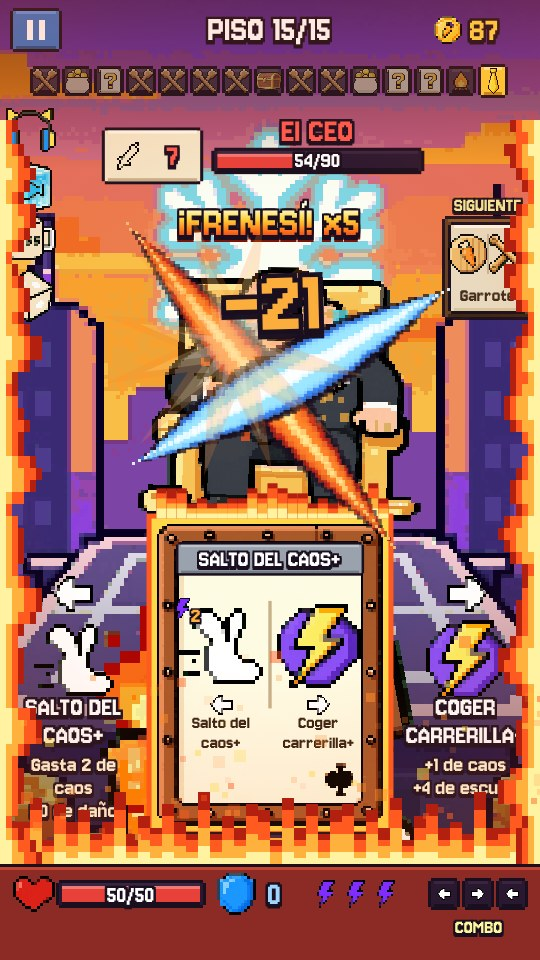
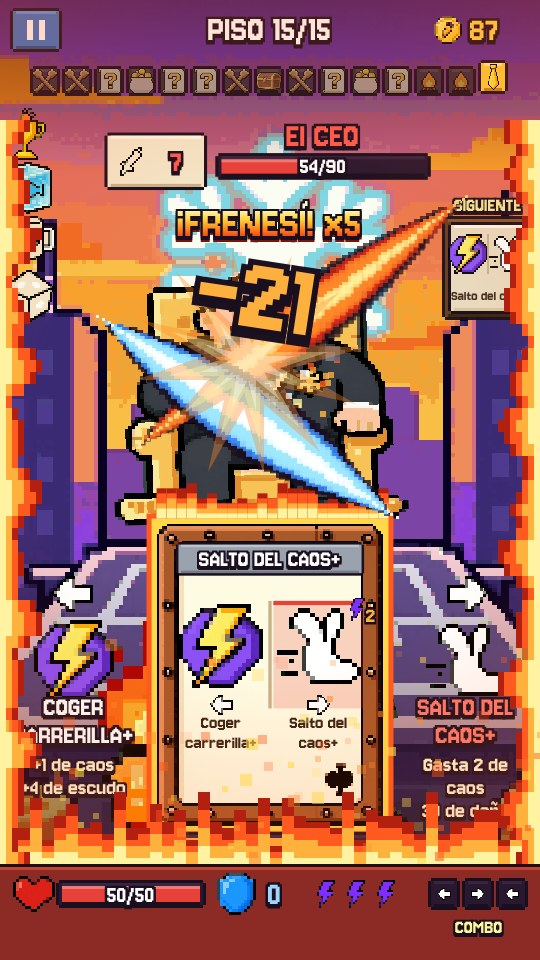
alfa 2eabdcb: Fans of Swipe: lados de las cartas fijos por diseño y el ataque marcado en rojo

diff --git a/alfa/demos/swipe/js/ajustes.js b/alfa/demos/swipe/js/ajustes.js
@@ -23,9 +23,10 @@ const SW_CFG = {
   mecha: 8, mechaJefe: 6.5, rapido: 2.2,   // segundos de mecha; la mecha arranca cuando la carta ya ha caído y arrastrando va a la mitad
   frenesi: 4, frenesiDano: 1.5, frenesiOro: 1.5,
   esperaEnemigo: 0.42,
-  // la estrategia: el escudo que te sobra se guarda a medias para el turno siguiente (guardia) y cada carta sale con sus
-  // lados en un orden al azar, así que no siempre es «izquierda = atacar»; además ves la siguiente carta del mazo
-  guardia: 0.5, giro: 0.5,
+  // la estrategia: el escudo que te sobra se guarda a medias para el turno siguiente (guardia) y ves la siguiente carta.
+  // Los lados de cada carta van FIJOS por diseño (unas atacan a la izquierda y otras a la derecha): quien se sabe las cartas
+  // juega más rápido. giro = probabilidad de darles la vuelta al azar (0 = nunca; así lo pidió Arkioner).
+  guardia: 0.5, giro: 0,
 };
 
 // Efectos (los usan las cartas, los eventos y la tienda). t = tipo:
@@ -42,16 +43,16 @@ const SW_CARTAS = {
   mordisco: { nombre: 'Zanahoria', arte: ['a-golpe', 'a-cura'], rareza: 0,
     izq: { nombre: 'Zanahoriazo', ef: [{ t: 'dano', n: 4 }, { t: 'caos', n: 1 }] },
     der: { nombre: 'Merendar', ef: [{ t: 'cura', n: 3 }, { t: 'escudo', n: 4 }] } },
-  salto:    { nombre: 'Salto del caos', arte: ['a-salto', 'a-caos'], rareza: 0,
-    izq: { nombre: 'Salto del caos', coste: 2, ef: [{ t: 'dano', n: 14 }] },
-    der: { nombre: 'Coger carrerilla', ef: [{ t: 'caos', n: 1 }, { t: 'escudo', n: 3 }] } },
+  salto:    { nombre: 'Salto del caos', arte: ['a-caos', 'a-salto'], rareza: 0,
+    izq: { nombre: 'Coger carrerilla', ef: [{ t: 'caos', n: 1 }, { t: 'escudo', n: 3 }] },
+    der: { nombre: 'Salto del caos', coste: 2, ef: [{ t: 'dano', n: 14 }] } },
   antorcha: { nombre: 'Antorcha verde', arte: ['a-fuego', 'a-cura'], rareza: 1,
     izq: { nombre: 'Fuego verde', ef: [{ t: 'dano', n: 3 }, { t: 'veneno', n: 4 }] },
     der: { nombre: 'Calentarse', ef: [{ t: 'cura', n: 3 }, { t: 'escudo', n: 3 }] } },
-  hielo:    { nombre: 'Carámbano', arte: ['a-hielo', 'a-escudo'], rareza: 2,
-    izq: { nombre: 'Carámbano', coste: 1, ef: [{ t: 'dano', n: 5 }, { t: 'congela' }] },
-    der: { nombre: 'Muro de hielo', ef: [{ t: 'escudo', n: 9 }] } },
-  furia:    { nombre: 'Rabia de fan', arte: ['a-golpe', 'a-caos'], rareza: 1,
+  hielo:    { nombre: 'Carámbano', arte: ['a-escudo', 'a-hielo'], rareza: 2,
+    izq: { nombre: 'Muro de hielo', ef: [{ t: 'escudo', n: 9 }] },
+    der: { nombre: 'Carámbano', coste: 1, ef: [{ t: 'dano', n: 5 }, { t: 'congela' }] } },
+  furia:    { nombre: 'Rabia de fan', arte: ['a-golpe', 'a-salto'], rareza: 1,
     izq: { nombre: 'Doble garrotazo', ef: [{ t: 'dano', n: 4, k: 2 }] },
     der: { nombre: 'A lo loco', ef: [{ t: 'dano', n: 13 }, { t: 'herida', n: 3 }] } },
   muro:     { nombre: 'Placaje', arte: ['a-escudo', 'a-escudo'], rareza: 1,
@@ -63,18 +64,18 @@ const SW_CARTAS = {
   rayo:     { nombre: 'Rayo del caos', arte: ['a-caos', 'a-caos'], rareza: 2,
     izq: { nombre: 'Rayo del caos', coste: 3, ef: [{ t: 'dano', n: 24 }] },
     der: { nombre: 'Cargar caos', ef: [{ t: 'caos', n: 2 }] } },
-  cafe:     { nombre: 'Café robado', arte: ['a-caos', 'a-cura'], rareza: 1,
-    izq: { nombre: 'Chute de café', ef: [{ t: 'caos', n: 1 }, { t: 'dano', n: 3 }] },
-    der: { nombre: 'Siesta', ef: [{ t: 'cura', n: 6 }, { t: 'caos', n: -1 }] } },
-  patada:   { nombre: 'Patada de conejo', arte: ['a-salto', 'a-escudo'], rareza: 1,
-    izq: { nombre: 'Doble patada', ef: [{ t: 'dano', n: 5, k: 2 }] },
-    der: { nombre: 'Voltereta', ef: [{ t: 'escudo', n: 4 }, { t: 'caos', n: 1 }] } },
-  grito:    { nombre: 'Grito de fan', arte: ['a-caos', 'a-escudo'], rareza: 2,
-    izq: { nombre: 'Abucheo', ef: [{ t: 'dano', n: 3 }, { t: 'debil', n: 2 }] },
-    der: { nombre: 'Venirse arriba', ef: [{ t: 'fuerza', n: 2 }] } },
-  veneno:   { nombre: 'Café de máquina', arte: ['a-veneno', 'a-escudo'], rareza: 2,
-    izq: { nombre: 'Café de máquina', coste: 1, ef: [{ t: 'veneno', n: 8 }] },
-    der: { nombre: 'Taza escudo', ef: [{ t: 'escudo', n: 5 }, { t: 'veneno', n: 2 }] } },
+  cafe:     { nombre: 'Café robado', arte: ['a-cura', 'a-caos'], rareza: 1,
+    izq: { nombre: 'Siesta', ef: [{ t: 'cura', n: 6 }, { t: 'caos', n: -1 }] },
+    der: { nombre: 'Chute de café', ef: [{ t: 'caos', n: 1 }, { t: 'dano', n: 3 }] } },
+  patada:   { nombre: 'Patada de conejo', arte: ['a-escudo', 'a-salto'], rareza: 1,
+    izq: { nombre: 'Voltereta', ef: [{ t: 'escudo', n: 4 }, { t: 'caos', n: 1 }] },
+    der: { nombre: 'Doble patada', ef: [{ t: 'dano', n: 5, k: 2 }] } },
+  grito:    { nombre: 'Grito de fan', arte: ['a-caos', 'a-golpe'], rareza: 2,
+    izq: { nombre: 'Venirse arriba', ef: [{ t: 'fuerza', n: 2 }] },
+    der: { nombre: 'Abucheo', ef: [{ t: 'dano', n: 3 }, { t: 'debil', n: 2 }] } },
+  veneno:   { nombre: 'Café de máquina', arte: ['a-escudo', 'a-veneno'], rareza: 2,
+    izq: { nombre: 'Taza escudo', ef: [{ t: 'escudo', n: 5 }, { t: 'veneno', n: 2 }] },
+    der: { nombre: 'Café de máquina', coste: 1, ef: [{ t: 'veneno', n: 8 }] } },
 };
 const SW_RAREZAS = [{ nombre: 'Básica', col: '#9aa3ad' }, { nombre: 'Poco común', col: '#4fc25a' }, { nombre: 'Rara', col: '#3f8cff' }];
 

diff --git a/alfa/index.html b/alfa/index.html
@@ -10,10 +10,10 @@
 <link rel="preconnect" href="https://fonts.googleapis.com">
 <link rel="preconnect" href="https://fonts.gstatic.com" crossorigin>
 <link rel="stylesheet" href="https://fonts.googleapis.com/css2?family=Baloo+2:wght@600;700;800&family=Luckiest+Guy&display=swap">
-<link rel="stylesheet" href="core/css/base.css?v=d9848fe">
-<link rel="stylesheet" href="biblioteca/tienda.css?v=d9848fe">
-<link rel="stylesheet" href="novedades/ventana.css?v=d9848fe">
-<link rel="stylesheet" href="biblioteca/votos.css?v=d9848fe">
+<link rel="stylesheet" href="core/css/base.css?v=2eabdcb">
+<link rel="stylesheet" href="biblioteca/tienda.css?v=2eabdcb">
+<link rel="stylesheet" href="novedades/ventana.css?v=2eabdcb">
+<link rel="stylesheet" href="biblioteca/votos.css?v=2eabdcb">
 <style>
   /* la entrada de la web: una tarjeta por juego, con los colores y las letras de core */
   body { overflow: auto; touch-action: auto; align-items: flex-start; background-repeat: no-repeat; background-attachment: fixed; }
@@ -61,7 +61,7 @@
 </style>
 </head>
 <body>
-<script src="menu.js?v=d9848fe" data-base="" data-core="1" data-pagina=""></script>
+<script src="menu.js?v=2eabdcb" data-base="" data-core="1" data-pagina=""></script>
 <div class="nov-fondo" id="novedades" hidden>
   <div class="nov-caja" role="dialog" aria-modal="true" aria-labelledby="nov-titulo">
     <div class="nov-cabeza"><h2 class="ol" id="nov-titulo">NOVEDADES</h2><p id="nov-sub"></p></div>
@@ -333,8 +333,8 @@
   </section>
   <p class="note" id="pie-fansof">Fans Of™ · © 2026 Arkioner y Pepins · MicroBlizz · Todos los derechos reservados</p>
 </main>
-<script src="core/js/nucleo.js?v=0-a639.d9848fe"></script>
-<script src="core/js/novedades.js?v=d9848fe"></script>
+<script src="core/js/nucleo.js?v=0-a640.2eabdcb"></script>
+<script src="core/js/novedades.js?v=2eabdcb"></script>
 <script>
 // La cuenta de la web es la misma de los juegos (core/js/sistema/cuenta.js, mismo navegador = misma sesión). Aquí no hay partida que subir.
 const AJUSTES = { id: 'web', guardado: 'fansof-web' }, SAVE_KEY = AJUSTES.guardado, SAVE = {};
@@ -343,7 +343,7 @@ const HOOKS = {};
 function hook(name, fn) { (HOOKS[name] = HOOKS[name] || []).push(fn); }
 function fire(name, ...a) { let out = ''; for (const fn of HOOKS[name] || []) { const r = fn(...a); if (typeof r === 'string') out += r; } return out; }
 </script>
-<script src="core/js/sistema/cuenta.js?v=d9848fe"></script>
+<script src="core/js/sistema/cuenta.js?v=2eabdcb"></script>
 <script>NUCLEO.idiomaSolo({ en: ['core/idioma/en-raiz.js', 'novedades/en.js', 'biblioteca/en.js','games/rumble/idioma/en-7.js', 'games/td/idioma/en-2.js', 'games/survivors/idioma/en.js', 'games/crush/idioma/en-raiz.js', 'games/jump/idioma/en-raiz.js', 'games/taxi/idioma/en-raiz.js', 'games/dark/idioma/en-raiz.js', 'games/nova/idioma/en-raiz.js', 'demos/beams/idioma/en-raiz.js', 'demos/snakes/idioma/en-raiz.js', 'demos/merge/idioma/en-raiz.js', 'demos/swipe/idioma/en-raiz.js', 'demos/vikings/idioma/en-raiz.js', 'demos/goose/idioma/en-raiz.js', 'demos/asalto/idioma/en-raiz.js', 'demos/auto/idioma/en-raiz.js', 'games/island/idioma/en-raiz.js', 'demos/rumble-3d/idioma/en-raiz.js', 'demos/roguelite/idioma/en-raiz.js', 'demos/tactics-advance/idioma/en-raiz.js', 'games/rouflage/idioma/en-raiz.js', 'demos/dungeons/idioma/en-raiz.js', 'games/karts/idioma/en-raiz.js', 'demos/recruit/idioma/en-raiz.js', 'demos/terminal-shock/idioma/en-raiz.js', 'games/ratkov/idioma/en-raiz.js'] })</script>
 <script>
 // La versión y las novedades salen de los archivos de cada juego, así que esta página nunca se queda atrás.
@@ -369,14 +369,14 @@ const fail = id => () => {
 };
 
 </script>
-<script src="core/js/proximamente.js?v=d9848fe"></script>
-<script src="novedades/ventana.js?v=d9848fe"></script>
-<script src="biblioteca/tienda.js?v=d9848fe"></script>
-<script src="core/js/sistema/beta.js?v=d9848fe"></script>
-<script src="biblioteca/cuenta-web.js?v=d9848fe"></script>
-<script src="biblioteca/votos.js?v=d9848fe"></script>
-<script src="biblioteca/alfa.js?v=d9848fe"></script>
-<script src="core/js/sistema/analitica.js?v=d9848fe"></script>
-<script src="pie.js?v=d9848fe" defer></script>
+<script src="core/js/proximamente.js?v=2eabdcb"></script>
+<script src="novedades/ventana.js?v=2eabdcb"></script>
+<script src="biblioteca/tienda.js?v=2eabdcb"></script>
+<script src="core/js/sistema/beta.js?v=2eabdcb"></script>
+<script src="biblioteca/cuenta-web.js?v=2eabdcb"></script>
+<script src="biblioteca/votos.js?v=2eabdcb"></script>
+<script src="biblioteca/alfa.js?v=2eabdcb"></script>
+<script src="core/js/sistema/analitica.js?v=2eabdcb"></script>
+<script src="pie.js?v=2eabdcb" defer></script>
 </body>
 </html>

diff --git a/alfa/games/rouflage/index.html b/alfa/games/rouflage/index.html
@@ -10,7 +10,7 @@
 <link rel="preconnect" href="https://fonts.googleapis.com">
 <link rel="preconnect" href="https://fonts.gstatic.com" crossorigin>
 <link rel="stylesheet" href="https://fonts.googleapis.com/css2?family=Baloo+2:wght@600;700;800&family=Luckiest+Guy&display=swap">
-<script src="../../core/js/nucleo.js?v=0.2.62-a639.d9848fe"></script>
+<script src="../../core/js/nucleo.js?v=0.2.62-a640.2eabdcb"></script>
 <script>NUCLEO.estilos('../../core/css/base.css', '../../core/css/menus.css', '../../core/css/menus-extra.css')</script>
 <script>NUCLEO.estilos('estilo.css', 'estilo-taller.css', 'estilo-pantallas.css', 'estilo-pvp.css', 'estilo-armario.css', 'estilo-menus.css', 'estilo-misiones.css', 'estilo-escenario.css', 'estilo-votos.css', 'estilo-gacha.css', 'estilo-compra.css', 'estilo-fin.css', 'estilo-talentos.css', 'estilo-chat.css', 'estilo-titulo.css', 'estilo-barra.css', 'estilo-sala-viva.css', 'estilo-obra.css', 'estilo-ayuda.css', 'estilo-carga.css')</script>      <!-- la intro, la última: pisa el #carga de estilo.css (antes iba en línea dentro de #carga) -->
 </head>

diff --git a/alfa/demos/swipe/js/carta.js b/alfa/demos/swipe/js/carta.js
@@ -93,6 +93,10 @@ function swDibujaCartaEn(c, P, carta, t, inclina) {
     // las dos acciones: izquierda y derecha, con su flecha
     const [a, b] = A.iconos;
     const lx = -58, rx = 58, yy = y + 68;
+    if (carta.tipo === 'accion') {   // el lado que ataca lleva un fondo rojo
+      const [LL, RR] = swLados(P, carta);
+      for (const [S, x] of [[LL, lx], [RR, rx]]) if (swEsAtaque(S)) { c.fillStyle = 'rgba(232,65,58,.22)'; c.fillRect(x - 54, yy - 54, 108, 128); c.fillStyle = '#e8413a'; c.fillRect(x - 54, yy - 54, 108, 5); }
+    }
     c.save(); c.globalAlpha = inclina > 0 ? 0.4 : 1; swDibujaC(c, a, lx, yy, 5); swDibujaC(c, 'i-flecha', lx, yy + 70, 2, true); c.restore();
     c.save(); c.globalAlpha = inclina < 0 ? 0.4 : 1; swDibujaC(c, b, rx, yy, 5); swDibujaC(c, 'i-flecha', rx, yy + 70, 2); c.restore();
     c.fillStyle = '#c8b08a'; c.fillRect(-2, yy - 54, 4, 128);

diff --git a/alfa/games/karts/index.html b/alfa/games/karts/index.html
@@ -8,7 +8,7 @@
 <meta name="description" content="Fans of Karts (juego): carreras de karts en pixel art de consola portátil con los líderes de Fans of Rumble. Tres pistas, seis pilotos, objetos con mala idea y Microblizz, que ha comprado la carrera.">
 <link rel="icon" type="image/png" href="img/icon-192.png">
 <link rel="apple-touch-icon" href="img/icon-192.png">
-<script src="../../core/js/nucleo.js?v=0.7.14-a639.d9848fe"></script>
+<script src="../../core/js/nucleo.js?v=0.7.14-a640.2eabdcb"></script>
 <script>NUCLEO.estilos('../../core/css/base.css', '../../core/css/menus.css', '../../core/css/menus-tienda.css', '../../core/css/menus-extra.css', 'css/tienda.css', 'css/pvp.css')</script>
 <link rel="stylesheet" href="https://fonts.googleapis.com/css2?family=Baloo+2:wght@600;700;800&family=Luckiest+Guy&display=swap">
 <style>

diff --git a/alfa/games/dark/index.html b/alfa/games/dark/index.html
@@ -12,7 +12,7 @@
 <link rel="stylesheet" href="https://fonts.googleapis.com/css2?family=Baloo+2:wght@600;700;800&family=Luckiest+Guy&family=Press+Start+2P&family=Pixelify+Sans:wght@400;600;700&display=swap">
 <link rel="stylesheet" href="css/dark.css?v=0.2.4">
 <!-- Prototipo: no usa NUCLEO (tiene su propia partida guardada). Carga de core el arte, la música, los efectos y las cifras del Rumble.
-     VERSIÓN para desplegar.py (que la busca así): nucleo.js?v=0.2.7-a639.d9848fe' (aquí solo se anota; súbela junto al ?v= de los scripts). -->
+     VERSIÓN para desplegar.py (que la busca así): nucleo.js?v=0.2.7-a640.2eabdcb' (aquí solo se anota; súbela junto al ?v= de los scripts). -->
 </head>
 <body>
 <canvas id="cv" aria-label="Mazmorra"></canvas>

diff --git a/alfa/games/rumble/index.html b/alfa/games/rumble/index.html
@@ -16,7 +16,7 @@
 <link rel="preconnect" href="https://fonts.gstatic.com" crossorigin>
 <link rel="stylesheet" href="https://fonts.googleapis.com/css2?family=Baloo+2:wght@600;700;800&family=Luckiest+Guy&display=swap">
 <!-- core/js/nucleo.js carga lo común y el juego. LA VERSIÓN SE ESCRIBE SOLO AQUÍ, en su ?v= -->
-<script src="../../core/js/nucleo.js?v=0.9.157-a639.d9848fe"></script>
+<script src="../../core/js/nucleo.js?v=0.9.157-a640.2eabdcb"></script>
 <script>NUCLEO.estilos('../../core/css/menus.css', 'css/estilos-partida.css', 'css/estilos-extra.css', 'css/arena.css', '../../core/css/biblioteca.css', 'css/facciones-y-jefes.css', '../../core/css/clasificacion.css', 'css/frases.css', 'css/mitica.css', 'css/paletas.css')</script>
 
 </head>

diff --git a/alfa/games/jump/index.html b/alfa/games/jump/index.html
@@ -12,7 +12,7 @@
 <link rel="preconnect" href="https://fonts.gstatic.com" crossorigin>
 <link rel="stylesheet" href="https://fonts.googleapis.com/css2?family=Baloo+2:wght@600;700;800&family=Luckiest+Guy&display=swap">
 <!-- ?v= es la versión del juego (la misma en la web y en la app): súbela al publicar y pon su entrada en js/novedades.js -->
-<script src="../../core/js/nucleo.js?v=0.3.15-a639.d9848fe"></script>
+<script src="../../core/js/nucleo.js?v=0.3.15-a640.2eabdcb"></script>
 <script>NUCLEO.estilos('../../core/css/base.css', '../../core/css/menus.css')</script>
 <style>
 /* Fans of Jump: un solo canvas a la resolución real de la pantalla, con los dibujos 3D. El mundo mide unos 200 de ancho y se

diff --git a/alfa/demos/swipe/js/pintar.js b/alfa/demos/swipe/js/pintar.js
@@ -177,7 +177,7 @@ function swPintaLados(c, t, lados, carta, inclina) {
     swDibujaC(c, 'i-flecha', izq ? -2 : 2, 0, 3, izq);
     const icono = L.icono && SW_IMG[L.icono] ? L.icono : null;
     if (icono) swDibujaC(c, icono, 0, 66, 4);
-    const col = L.bloqueado ? '#ff8a80' : hacia ? '#ffd84a' : '#ffffff';
+    const col = L.bloqueado ? '#ff8a80' : hacia ? '#ffd84a' : swEsAtaque(L) ? '#ff7a6e' : '#ffffff';   // los ataques, en rojo
     const ANCHO = 122;   // lo que cabe a cada lado de la carta
     const nom = swParte(c, (tr(L.nombre) + (L.mas ? '+' : '')).toUpperCase(), ANCHO, 19);
     nom.slice(0, 2).forEach((l, j) => swTextoCabe(c, l, 0, 114 + j * 28, 19, ANCHO, col));

diff --git a/alfa/games/decks/index.html b/alfa/games/decks/index.html
@@ -15,7 +15,7 @@
 <link rel="preconnect" href="https://fonts.gstatic.com" crossorigin>
 <link rel="stylesheet" href="https://fonts.googleapis.com/css2?family=Baloo+2:wght@600;700;800&family=Luckiest+Guy&display=swap">
 <!-- core/js/nucleo.js carga lo común y el juego. LA VERSIÓN SE ESCRIBE SOLO AQUÍ, en su ?v= -->
-<script src="../../core/js/nucleo.js?v=0.2.20-a639.d9848fe"></script>
+<script src="../../core/js/nucleo.js?v=0.2.20-a640.2eabdcb"></script>
 <script>NUCLEO.estilos('../../core/css/base.css', '../../core/css/menus.css', 'css/decks.css', 'css/decks-reunion.css', 'css/decks-anim.css', 'css/decks-campana.css', 'css/decks-lideres.css')</script>
 </head>
 <body>

diff --git a/alfa/demos/goose/index.html b/alfa/demos/goose/index.html
@@ -10,7 +10,7 @@
 <link rel="preconnect" href="https://fonts.gstatic.com" crossorigin>
 <link rel="stylesheet" href="https://fonts.googleapis.com/css2?family=Pixelify+Sans:wght@500;700&family=Pirata+One&display=swap">
 <!-- ?v= es la versión de la demo: súbela al publicar -->
-<script src="../../core/js/nucleo.js?v=0.3.0-a639.d9848fe"></script>
+<script src="../../core/js/nucleo.js?v=0.3.0-a640.2eabdcb"></script>
 <script>NUCLEO.estilos('../../core/css/base.css', '../../core/css/menus.css')</script>
 <style>
 /* Fans of Goose: un solo canvas en vertical, a la resolución real del móvil. El mundo mide 200 de ancho. */

diff --git a/alfa/games/ratkov/index.html b/alfa/games/ratkov/index.html
@@ -13,7 +13,7 @@
 <link rel="preconnect" href="https://fonts.gstatic.com" crossorigin>
 <link rel="stylesheet" href="https://fonts.googleapis.com/css2?family=VT323&family=Russo+One&display=swap">
 <script src="https://cdnjs.cloudflare.com/ajax/libs/three.js/r128/three.min.js"></script>
-<script src="../../core/js/nucleo.js?v=0.2.28-a639.d9848fe"></script>
+<script src="../../core/js/nucleo.js?v=0.2.28-a640.2eabdcb"></script>
 <script>NUCLEO.estilos('../../core/css/base.css', '../../core/css/menus.css')</script>
 <link rel="stylesheet" href="estilo.css?v=0.2.3">
 <link rel="stylesheet" href="estilo-refugio.css?v=0.2.3">
